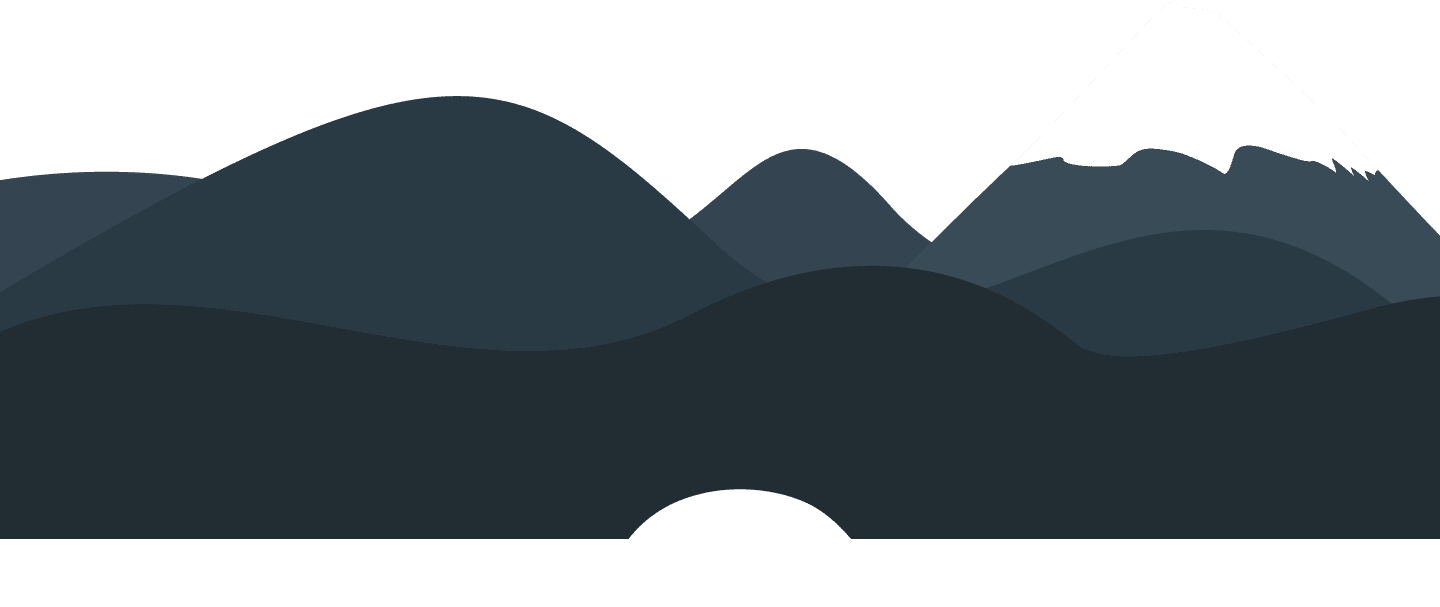
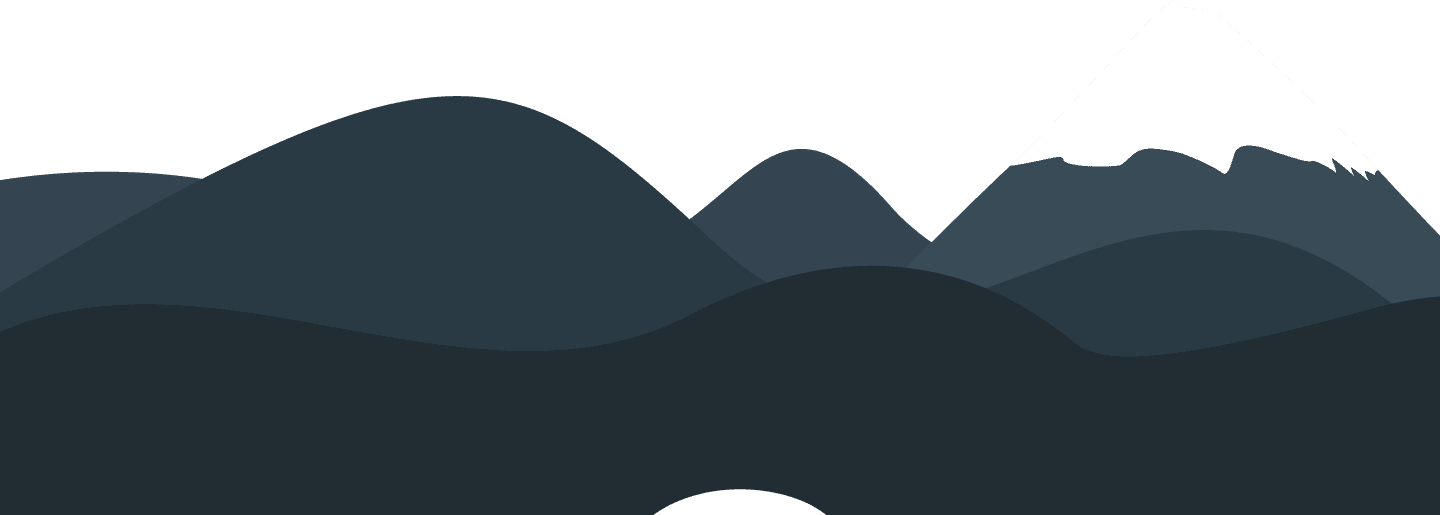
[UPDATE] Background Home + Mountain

Changed region(s): [[0.0, 0.8078, 1.0, 1.0], [0.0, 0.1553, 1.0, 0.5903], [0.0, 0.5282, 0.0312, 0.5592]]

diff --git a/components/Home/background.js b/components/Home/background.js
@@ -175,7 +175,7 @@ const Mount = styled.img`
   }
   @media (min-width:1024px) {
     width:100%;
-    bottom: -3vh;
+    bottom: 0vh;
     
   }
 `
